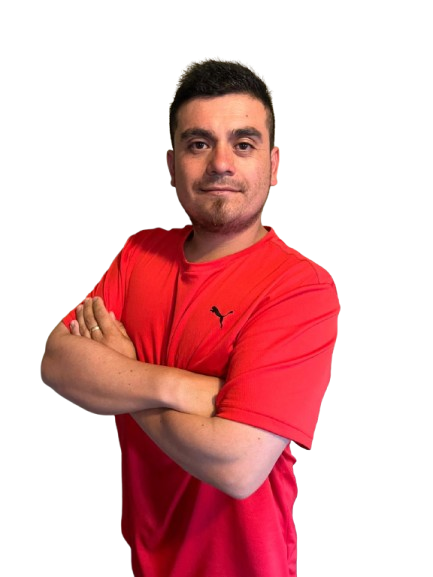
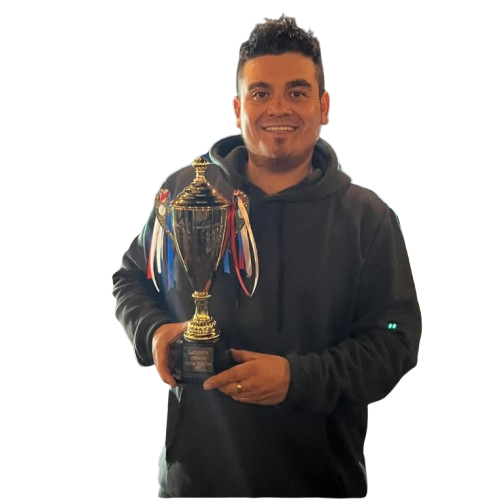
Actualiza cuarta edicion responsive fotos y navegacion

diff --git a/app/enfrentamientos/page.tsx b/app/enfrentamientos/page.tsx
@@ -90,9 +90,6 @@ export default async function EnfrentamientosPage() {
     pairCountMap.set(key, (pairCountMap.get(key) ?? 0) + 1);
   });
 
-  const totalPossiblePairs = (players.length * (players.length - 1)) / 2;
-  const completedPairs = Array.from(pairCountMap.values()).filter((played) => played >= 2).length;
-
   let totalPendingMatches = 0;
   let totalAvailablePairs = 0;
 
@@ -112,7 +109,7 @@ export default async function EnfrentamientosPage() {
   return (
     <main className="min-h-screen bg-[radial-gradient(circle_at_top,#ecfeff_0%,#f8fafc_28%,#f8fafc_100%)] text-slate-900">
       <div className="mobile-safe-x mx-auto max-w-7xl px-4 py-6 sm:px-6 sm:py-10">
-        <section className="relative overflow-hidden rounded-[2rem] border border-white/70 bg-white/90 p-6 shadow-[0_18px_60px_rgba(15,23,42,0.08)] backdrop-blur">
+        <section className="relative overflow-hidden rounded-[2rem] border border-white/70 bg-white/90 p-5 shadow-[0_18px_60px_rgba(15,23,42,0.08)] backdrop-blur sm:p-6">
           <div className="absolute inset-0 bg-[radial-gradient(circle_at_top_right,rgba(34,211,238,0.16),transparent_28%),radial-gradient(circle_at_bottom_left,rgba(250,204,21,0.14),transparent_24%)]" />
 
           <div className="relative">
@@ -122,7 +119,7 @@ export default async function EnfrentamientosPage() {
                   {activeEdition.name}
                 </span>
 
-                <h1 className="mt-4 text-4xl font-black tracking-tight text-slate-950 sm:text-5xl">
+                <h1 className="mt-4 text-3xl font-black tracking-tight text-slate-950 sm:text-5xl">
                   Estado de enfrentamientos
                 </h1>
 
@@ -186,33 +183,33 @@ export default async function EnfrentamientosPage() {
                 key={player.id}
                 className="overflow-hidden rounded-[2rem] border border-slate-200 bg-white shadow-[0_14px_40px_rgba(15,23,42,0.07)]"
               >
-                <div className="border-b border-slate-100 bg-gradient-to-r from-white via-cyan-50/70 to-emerald-50/70 p-5">
-                  <div className="flex items-start justify-between gap-4">
-                    <div className="flex min-w-0 items-center gap-3">
-                     <div className="flex h-14 w-14 shrink-0 items-center justify-center overflow-hidden rounded-2xl border border-slate-200 bg-white text-sm font-black text-slate-500">
-  {player.photo_url ? (
-    <img
-      src={player.photo_url}
-      alt={player.name}
-      className="h-full w-full object-contain p-1"
-    />
-  ) : (
-    getPlayerInitials(player.name)
-  )}
-</div>
+                <div className="border-b border-slate-100 bg-gradient-to-r from-white via-cyan-50/70 to-emerald-50/70 p-4 sm:p-5">
+                  <div className="flex flex-col gap-4 sm:flex-row sm:items-start sm:justify-between">
+                    <div className="flex w-full min-w-0 items-center gap-3 sm:w-auto">
+                      <div className="flex h-16 w-16 shrink-0 items-center justify-center overflow-hidden rounded-2xl border border-slate-200 bg-white text-sm font-black text-slate-500">
+                        {player.photo_url ? (
+                          <img
+                            src={player.photo_url}
+                            alt={player.name}
+                            className="h-full w-full object-contain p-1"
+                          />
+                        ) : (
+                          getPlayerInitials(player.name)
+                        )}
+                      </div>
 
                       <div className="min-w-0">
-                        <h2 className="truncate text-xl font-black text-slate-950">
+                        <h2 className="text-xl font-black leading-tight text-slate-950 sm:truncate">
                           {player.name}
                         </h2>
 
-                        <p className="mt-1 text-sm text-slate-500">
+                        <p className="mt-1 text-sm leading-5 text-slate-500">
                           Estado de sus enfrentamientos
                         </p>
                       </div>
                     </div>
 
-                    <span className="shrink-0 rounded-full bg-gradient-to-r from-cyan-400 to-emerald-400 px-4 py-2 text-xs font-black text-white shadow-sm">
+                    <span className="w-fit shrink-0 rounded-full bg-gradient-to-r from-cyan-400 to-emerald-400 px-4 py-2 text-xs font-black text-white shadow-sm">
                       {rivals.length} rivales
                     </span>
                   </div>
@@ -235,20 +232,20 @@ export default async function EnfrentamientosPage() {
                   </div>
                 </div>
 
-                <div className="max-h-[620px] space-y-3 overflow-y-auto p-5">
-                  {rivals.map(({ rival, played, status }) => (
+                <div className="max-h-[620px] space-y-3 overflow-y-auto p-4 sm:p-5">
+                  {rivals.map(({ rival, status }) => (
                     <div
                       key={`${player.id}-${rival.id}`}
-                      className={`flex items-center justify-between gap-3 rounded-2xl border px-4 py-3 ${status.rowClass}`}
+                      className={`flex flex-col gap-1 rounded-2xl border px-4 py-3 sm:flex-row sm:items-center sm:justify-between sm:gap-3 ${status.rowClass}`}
                     >
                       <Link
                         href={`/jugadores/${rival.id}`}
-                        className="min-w-0 truncate text-sm font-black transition hover:underline"
+                        className="min-w-0 text-sm font-black transition hover:underline sm:truncate"
                       >
                         {rival.name}
                       </Link>
 
-                      <span className={`shrink-0 text-right text-sm font-black ${status.badgeClass}`}>
+                      <span className={`shrink-0 text-sm font-black sm:text-right ${status.badgeClass}`}>
                         {status.label}
                       </span>
                     </div>
@@ -265,7 +262,7 @@ export default async function EnfrentamientosPage() {
           </section>
         )}
 
-        <section className="mt-8 rounded-[2rem] border border-slate-200 bg-white p-6 shadow-sm">
+        <section className="mt-8 rounded-[2rem] border border-slate-200 bg-white p-5 shadow-sm sm:p-6">
           <div className="flex flex-col gap-3 sm:flex-row sm:items-center sm:justify-between">
             <div>
               <h2 className="text-2xl font-black">Registrar resultados</h2>

diff --git a/app/admin/page.tsx b/app/admin/page.tsx
@@ -54,14 +54,7 @@ export default async function AdminPage({ searchParams }: AdminPageProps) {
           description={`Panel de registro y gestión de resultados. Edición activa: ${activeEdition.name}`}
         />
 
-        <div className="mt-6 flex flex-col gap-3 sm:flex-row sm:items-center sm:justify-between">
-          <Link
-            href="/admin/fase-final"
-            className="rounded-2xl border border-amber-200 bg-amber-50 px-4 py-2 text-center text-sm font-black text-amber-800 transition hover:bg-amber-100"
-          >
-            🏆 Reportar resultados etapa final
-          </Link>
-
+        <div className="mt-6 flex justify-end">
           <form action={logoutAction}>
             <button
               type="submit"

diff --git a/components/MainNav.tsx b/components/MainNav.tsx
@@ -50,6 +50,7 @@ export default function MainNav() {
               <p className="truncate text-xs font-black uppercase tracking-[0.18em] sm:text-sm">
                 Escalerilla
               </p>
+
               <p
                 className={`truncate text-[11px] font-semibold sm:text-xs ${
                   isHome ? "text-white/75" : "text-slate-500"
